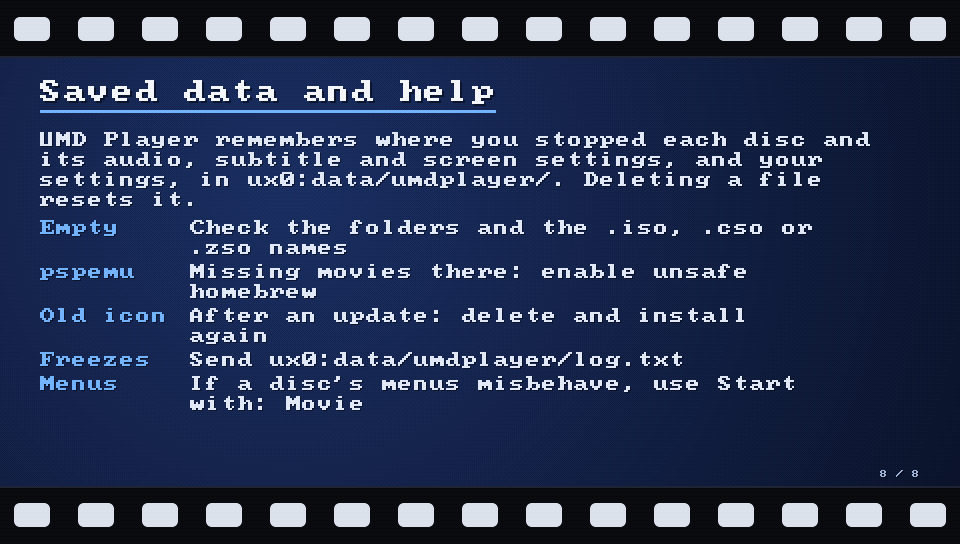
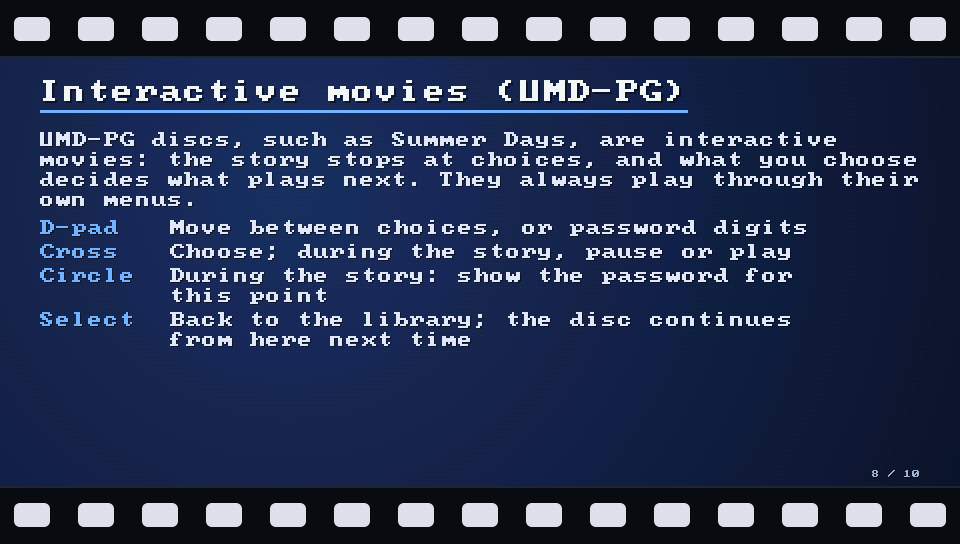
Document UMD-PG and passwords; report playSpeed to the menus
Summer Days shows its password when the menu button is pressed at normal
speed (playSpeed 0) and hides it when playback pauses. getPlayerStatus now
has playSpeed, 0 while playing and -1 while paused.

docs/manual.md and the Vita manual (pages 8 and 9) explain interactive
movies, their controls, and how to read and enter a password. Leaving and
continuing a disc is documented with the disc menus. menutest can press the
menu button (menu).

diff --git a/tools/make_manual.py b/tools/make_manual.py
@@ -120,7 +120,7 @@ class Page:
         A.save(self.c, os.path.join(out, '%03d.png' % number))
 
 
-PAGES = 8
+PAGES = 10
 
 
 def main():
@@ -199,17 +199,40 @@ def main():
     p.rows([('D-pad', 'Move between menu items'), ('Cross', 'Choose'),
             ('Circle', 'Back in the menus; the disc\'s menu during the movie'),
             ('Select', 'Back to the library (or hold Circle)')], key_w=130)
+    p.y += 8
+    p.para('A disc you leave saves its own place, as on a PSP, and continues from there next time. '
+           'Square in the library starts it from the beginning.')
     p.save(out, 7)
 
-    p = Page(base, 8, 'Saved data and help')
+    p = Page(base, 8, 'Interactive movies (UMD-PG)')
+    p.para('UMD-PG discs, such as Summer Days, are interactive movies: the story stops at choices, '
+           'and what you choose decides what plays next. They always play through their own menus.')
+    p.rows([('D-pad', 'Move between choices, or password digits'),
+            ('Cross', 'Choose; during the story, pause or play'),
+            ('Circle', 'During the story: show the password for this point'),
+            ('Select', 'Back to the library; the disc continues from here next time')], key_w=130)
+    p.save(out, 8)
+
+    p = Page(base, 9, 'Passwords')
+    p.para('A game on several discs carries your progress to the next disc with a 4-digit password. '
+           'A password also takes you back to a point you reached before.')
+    p.rows([('1', 'During the story, press Circle. Write down the password and the disc it is for.'),
+            ('2', 'Pause with Cross to hide it, and Cross again to play.'),
+            ('3', 'On that disc, choose the title menu option that loads a game (on discs 2 and 3 '
+                  'of Summer Days, the start option).'),
+            ('4', 'Up/Down change a digit, Left/Right move. Choose OK with Cross.')], key_w=40, chars=48)
+    p.save(out, 9)
+
+    p = Page(base, 10, 'Saved data and help')
     p.para('UMD Player remembers where you stopped each disc and its audio, subtitle and screen '
-           'settings, and your settings, in ux0:data/umdplayer/. Deleting a file resets it.')
+           'settings, where you left each disc played through its menus, and your settings, in '
+           'ux0:data/umdplayer/. Deleting a file resets it.')
     p.rows([('Empty', 'Check the folders and the .iso, .cso or .zso names'),
             ('pspemu', 'Missing movies there: enable unsafe homebrew'),
             ('Old icon', 'After an update: delete and install again'),
             ('Freezes', 'Send ux0:data/umdplayer/log.txt'),
             ('Menus', 'If a disc\'s menus misbehave, use Start with: Movie')], key_w=150)
-    p.save(out, 8)
+    p.save(out, 10)
 
 
 if __name__ == '__main__':

diff --git a/tools/menutest.c b/tools/menutest.c
@@ -7,7 +7,8 @@
                                       run the disc's menus (src/app/menu.c) with a simulated
                                       player on a virtual clock: titles end after their length,
                                       buttons are pressed at the given times (up down left right
-                                      cross circle triangle start), and with -o every new menu
+                                      cross circle triangle start, and menu for the menu button
+                                      during playback), and with -o every new menu
                                       picture is saved as dir/menu-<ms>.ppm, over the 960x544
                                       PNG given with -b (a frame of the menu video). With -s,
                                       the disc continues from the state in <file> if there is
@@ -356,6 +357,8 @@ static int run_disc(int argc, char **argv)
             if (b && s.now >= at && s.now < at + 16667) {
                 pressed |= button(b + 1);
                 printf("%8.2f s  press %s\n", s.now / 1e6, b + 1);
+                if (strcmp(b + 1, "menu") == 0)      /* Circle during playback, in src/app/disc.c */
+                    menu_menu_button(m);
             }
         }
         if (s.st.playing && !s.st.paused) {

diff --git a/src/app/menu.c b/src/app/menu.c
@@ -905,6 +905,9 @@ NATIVE(mp_status)
     vs_set(vm, *ret, vs_intern(vm, "playStatus"), vs_int(!st.playing ? 0 : st.paused ? 1 : 2));
     vs_set(vm, *ret, vs_intern(vm, "playListNumber"), vs_int(st.playlist));
     vs_set(vm, *ret, vs_intern(vm, "chapterNumber"), vs_int(st.chapter));
+    /* 0 is normal speed, anything else paused or fast play; the scripts only test for 0.
+       Summer Days shows its password at normal speed and hides it when that changes. */
+    vs_set(vm, *ret, vs_intern(vm, "playSpeed"), vs_int(st.playing && st.paused ? -1 : 0));
     vs_set(vm, *ret, vs_intern(vm, "audioNumber"), vs_int(0xBD00 + st.audio));
     vs_set(vm, *ret, vs_intern(vm, "subtitleNumber"), vs_int(st.subtitle >= 0 ? 0xBD80 + st.subtitle : -1));
     vs_set(vm, *ret, vs_intern(vm, "subtitleFlag"), vs_int(st.subtitle >= 0));

diff --git a/docs/manual.md b/docs/manual.md
@@ -37,7 +37,7 @@ The selected disc is the large icon on the left. On a PSP-authored disc, the bac
 |---|---|
 | Up, Down | Choose a disc |
 | ✕ | Play the disc (from where you left it, if you watched it before) |
-| □ | Play the disc from the start, keeping its settings |
+| □ | Play the disc from the start, keeping its settings. With disc menus, the disc starts as if inserted for the first time. |
 | Select | Show or hide the disc's name and resume point |
 | △ | Open the settings |
 | PS button | Leave the app |
@@ -104,9 +104,34 @@ With "Start with: Disc", UMD Player runs the disc's own menus: the menu screens,
 
 Holding ○ for 1.5 seconds also goes back to the library.
 
+When you leave a disc, it saves its own place, as on a PSP. The next time, the disc continues from there. Some discs ask first. In the library, the Select panel says "Continue where you left off", and □ starts the disc from the beginning instead.
+
+## Interactive movies (UMD-PG)
+
+UMD-PG discs are interactive movies. The story stops at choices, and what you choose decides what plays next. Summer Days is one. In the library, the Select panel marks these discs "Interactive movie (UMD-PG)". UMD Player always plays them through their own menus, whatever "Start with" says.
+
+| Button | What it does |
+|---|---|
+| D-pad | Move between the choices in a choice window, or between the digits of a password |
+| ✕ | Choose. During the story: pause or play. |
+| ○ | During the story: show the password for this point of the story |
+| Select | Back to the library. The disc continues from here next time. |
+
+### Passwords
+
+A game on several discs, such as Summer Days, carries your progress from one disc to the next with a 4-digit password. A password also takes you back to a point you reached before.
+
+1. During the story, press ○. The game shows the password for the point you have reached, and the disc that it is for. Write both down.
+2. To hide the password, pause the story with ✕, then press ✕ again to play.
+3. Start the disc that the password is for. In its title menu, choose the option that loads a game. On discs 2 and 3 of Summer Days, the start option itself asks for the password.
+4. Enter the password: Up and Down change a digit, Left and Right move to another digit. Then choose OK (決定) with ✕. Back (戻る) returns to the title menu.
+
+The story continues from the point that the password stands for. You do not need a password to continue the same disc: leaving the disc keeps your place.
+
 ## What UMD Player remembers
 
 - Where you stopped each disc, and its audio, subtitle and screen settings: `ux0:data/umdplayer/resume.txt`.
+- Where you left each disc played through its menus, with the disc's own saved data: `ux0:data/umdplayer/discs.txt`.
 - Your settings: `ux0:data/umdplayer/settings.txt`.
 
 Deleting a file resets what it holds.

diff --git a/CHANGELOG.md b/CHANGELOG.md
@@ -2,6 +2,8 @@
 
 ## Unreleased
 
+- Manual: interactive movies (UMD-PG) and their passwords, in docs/manual.md and two new pages of the Vita manual.
+- Disc menus: getPlayerStatus has playSpeed (0 at normal speed), so Summer Days shows its password with Circle during the story, and hides it when paused.
 - Discs played through their menus continue where you left them, UMD-PG games included. Leaving a disc runs its controller.onExit, which saves the disc's own state; the next time, controller.onContinuePlay picks up from it, as on a PSP. The state is kept in ux0:data/umdplayer/discs.txt. In the library, the disc shows "Continue where you left off", and □ starts it from the beginning.
 - Disc menus: movieplayer.resume returns 0 when it continues (Harry Potter tests it), and resource.soundtable sound effects are accepted silently (UMD9660).
 - UMD-PG interactive movies (such as Summer Days): detected in the library, always played through their own menus, with their Japanese start menus (JA100000), chapter marks (mark_name, mark_data) and more than 64 titles.

diff --git a/README.md b/README.md
@@ -14,6 +14,7 @@ The screenshots use placeholder discs. With your discs, the library shows each d
 - **Hardware video**: H.264 on the Vita's decoder, including the field-coded discs, with ATRAC3plus audio decoded in software.
 - **A PSP-style library**: each disc's background, animated icon and music; the resume point of every disc.
 - **The disc's own menus** ("Start with: Disc"): logos, warnings, menu screens with their animations, and the disc's audio, subtitle, chapter and extras choices.
+- **Interactive movies (UMD-PG)** such as Summer Days: choices, and passwords to carry the story from disc to disc. Discs played through their menus continue where you left them.
 - **Audio and subtitles**: switch tracks while the movie plays; default languages for new discs, subtitles in the Vita's language.
 - **Screen modes**: Fit, Zoom (finds black bars inside the picture), Fill and Stretch.
 - **Fast seeking**: hold left or right to rewind or fast-forward, jump by chapter, or drag along the time bar on the touch screen.
